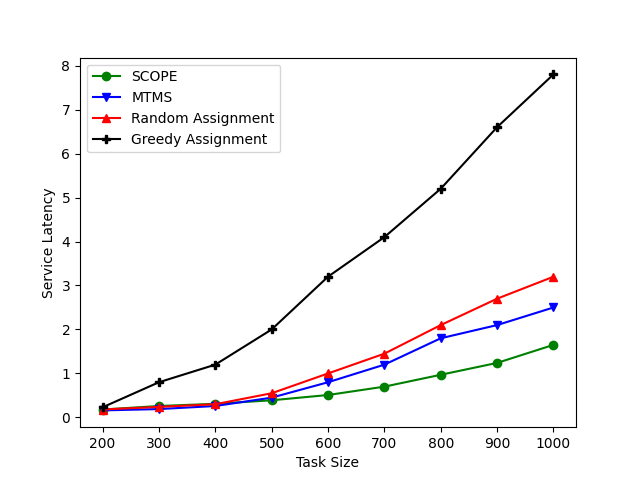
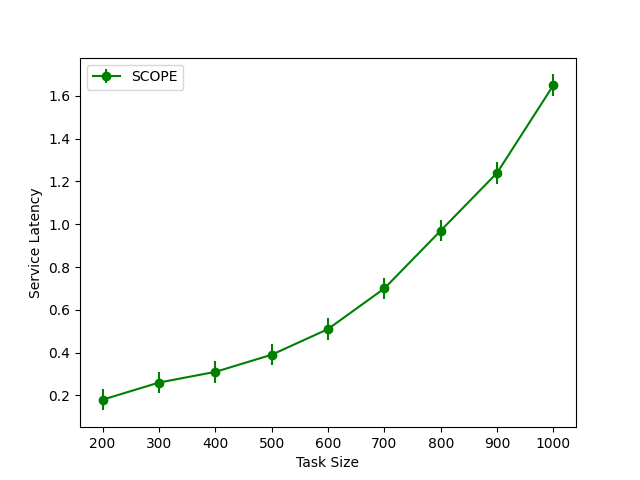
confidence interval code test

diff --git a/dummygraph.py b/dummygraph.py
@@ -269,7 +269,7 @@ def taskSizeVsLatency():
     y4 = []
     for line in open('Data/tasksizevslatency.txt', 'r'):
         lines = [i for i in line.split()]
-        x1.append(lines[0])
+        x1.append(float(lines[0]))
         y1.append(float(lines[1]))
         y2.append(float(lines[2]))
         y3.append(float(lines[3]))
@@ -277,11 +277,11 @@ def taskSizeVsLatency():
 
     plt.xlabel('Task Size')
     plt.ylabel('Service Latency')
-
-    plt.plot(x1, y4, marker='o', c='g', label='SCOPE')
-    plt.plot(x1, y1, marker='v', c='b', label='MTMS')
-    plt.plot(x1, y2, marker='^', c='r', label='Random Assignment')
-    plt.plot(x1, y3, marker='P', c='k', label='Greedy Assignment')
+    # plt.plot(x1, y4, marker='o', c='g', label='SCOPE')
+    plt.errorbar(x1, y4, color='green', label='SCOPE', yerr=0.05, marker='o')
+    # plt.plot(x1, y1, marker='v', c='b', label='MTMS')
+    # plt.plot(x1, y2, marker='^', c='r', label='Random Assignment')
+    # plt.plot(x1, y3, marker='P', c='k', label='Greedy Assignment')
 
     plt.legend()
     plt.savefig("Images/tasksizevslatency.png")
@@ -407,10 +407,10 @@ def taskSizeVsTaskDropBar():
     plt.show()
 
 
-subtaskVsLatency()
-subtaskVsEnergy()
-subtaskVsUtilCost()
-subtaskVsTaskDrop()
+# subtaskVsLatency()
+# subtaskVsEnergy()
+# subtaskVsUtilCost()
+# subtaskVsTaskDrop()
 
 # serverVsLatency()
 # serverVsEnergy()
@@ -418,7 +418,7 @@ subtaskVsTaskDrop()
 # serverVsTaskDrop()
 # serverVsTaskDropBar()
 
-# taskSizeVsLatency()
+taskSizeVsLatency()
 # taskSizeVsEnergy()
 # taskSizeVsUtilityPerUnitCost()
 # taskSizeVsTaskDrop()
